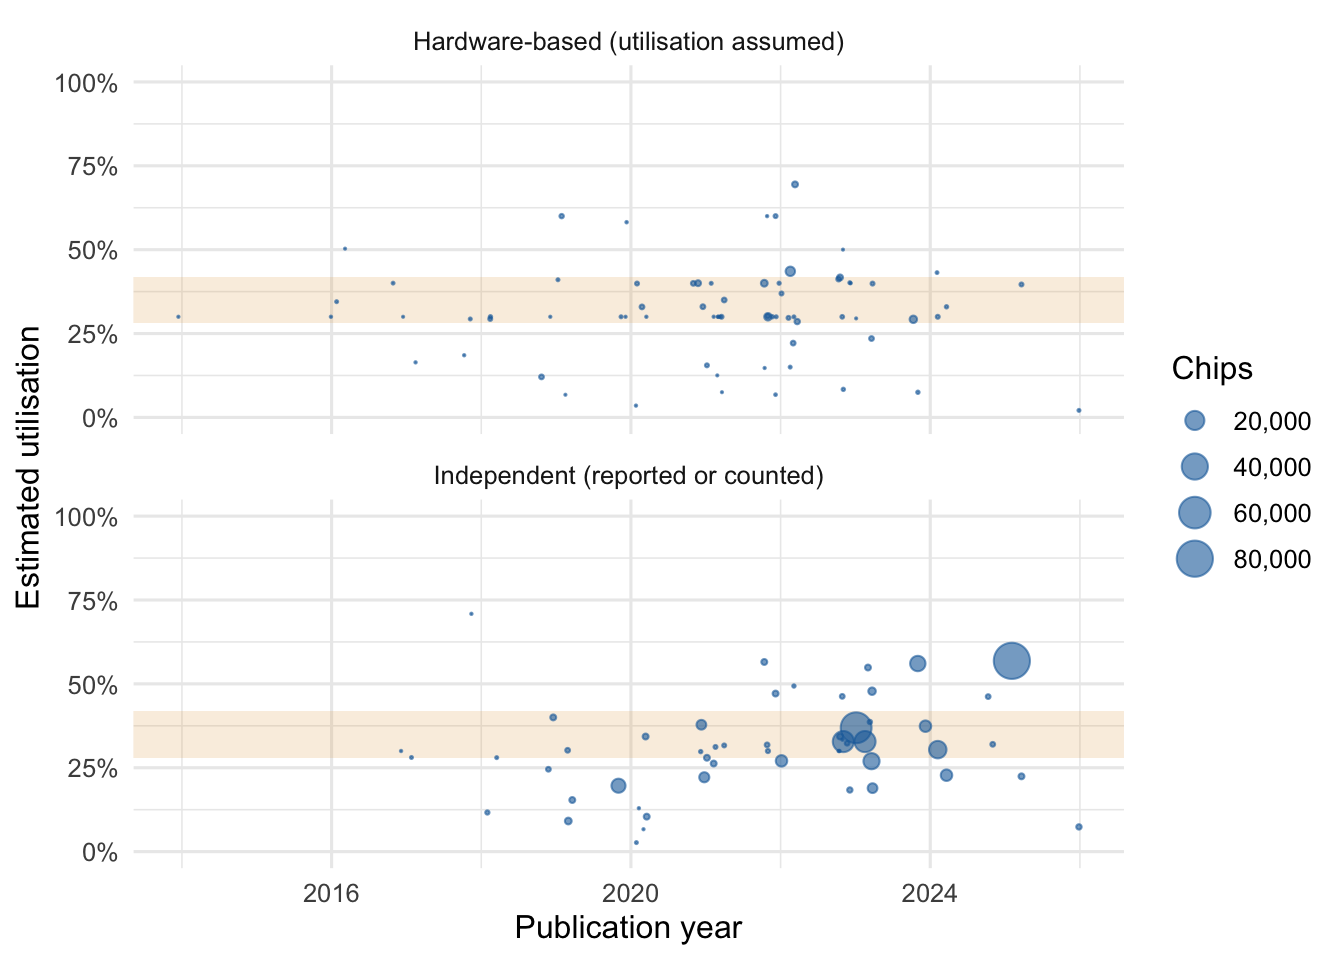
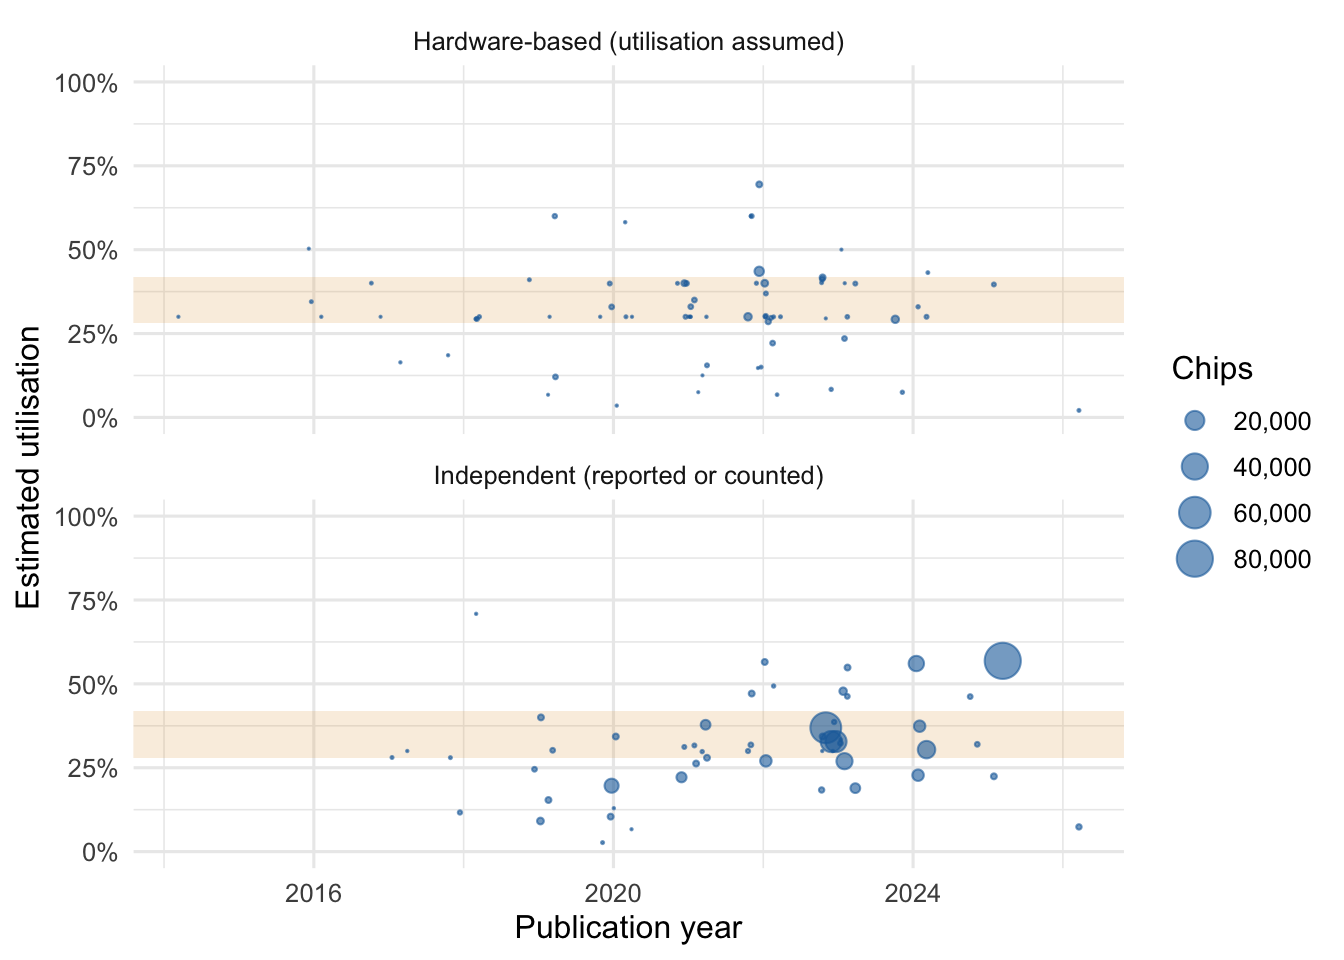
Seed the jitter in the bonus figure so renders are reproducible

diff --git a/docs/posts/r-and-python/index.html b/docs/posts/r-and-python/index.html
@@ -386,12 +386,13 @@ Independent (reported or counted)       64                   11</code></pre>
 <span id="cb13-5"><a href="#cb13-5" aria-hidden="true" tabindex="-1"></a>  <span class="fu">ggplot</span>(<span class="fu">aes</span>(year, utilisation)) <span class="sc">+</span></span>
 <span id="cb13-6"><a href="#cb13-6" aria-hidden="true" tabindex="-1"></a>  <span class="fu">annotate</span>(<span class="st">"rect"</span>, <span class="at">xmin =</span> <span class="sc">-</span><span class="cn">Inf</span>, <span class="at">xmax =</span> <span class="cn">Inf</span>, <span class="at">ymin =</span> <span class="fl">0.28</span>, <span class="at">ymax =</span> <span class="fl">0.42</span>,</span>
 <span id="cb13-7"><a href="#cb13-7" aria-hidden="true" tabindex="-1"></a>           <span class="at">fill =</span> <span class="st">"#e09f3e"</span>, <span class="at">alpha =</span> <span class="fl">0.18</span>) <span class="sc">+</span></span>
-<span id="cb13-8"><a href="#cb13-8" aria-hidden="true" tabindex="-1"></a>  <span class="fu">geom_jitter</span>(<span class="fu">aes</span>(<span class="at">size =</span> chips), <span class="at">width =</span> <span class="fl">0.25</span>, <span class="at">height =</span> <span class="dv">0</span>, <span class="at">colour =</span> <span class="st">"#1b6ca8"</span>, <span class="at">alpha =</span> <span class="fl">0.6</span>) <span class="sc">+</span></span>
-<span id="cb13-9"><a href="#cb13-9" aria-hidden="true" tabindex="-1"></a>  <span class="fu">facet_wrap</span>(<span class="sc">~</span>estimate, <span class="at">ncol =</span> <span class="dv">1</span>) <span class="sc">+</span></span>
-<span id="cb13-10"><a href="#cb13-10" aria-hidden="true" tabindex="-1"></a>  <span class="fu">scale_y_continuous</span>(<span class="at">labels =</span> scales<span class="sc">::</span>percent, <span class="at">limits =</span> <span class="fu">c</span>(<span class="dv">0</span>, <span class="dv">1</span>)) <span class="sc">+</span></span>
-<span id="cb13-11"><a href="#cb13-11" aria-hidden="true" tabindex="-1"></a>  <span class="fu">scale_size_area</span>(<span class="at">max_size =</span> <span class="dv">6</span>, <span class="at">labels =</span> scales<span class="sc">::</span>comma) <span class="sc">+</span></span>
-<span id="cb13-12"><a href="#cb13-12" aria-hidden="true" tabindex="-1"></a>  <span class="fu">labs</span>(<span class="at">x =</span> <span class="st">"Publication year"</span>, <span class="at">y =</span> <span class="st">"Estimated utilisation"</span>, <span class="at">size =</span> <span class="st">"Chips"</span>) <span class="sc">+</span></span>
-<span id="cb13-13"><a href="#cb13-13" aria-hidden="true" tabindex="-1"></a>  <span class="fu">theme_minimal</span>(<span class="at">base_size =</span> <span class="dv">12</span>)</span></code></pre></div><button title="Copy to Clipboard" class="code-copy-button"><i class="bi"></i></button></div>
+<span id="cb13-8"><a href="#cb13-8" aria-hidden="true" tabindex="-1"></a>  <span class="fu">geom_point</span>(<span class="fu">aes</span>(<span class="at">size =</span> chips), <span class="at">colour =</span> <span class="st">"#1b6ca8"</span>, <span class="at">alpha =</span> <span class="fl">0.6</span>,</span>
+<span id="cb13-9"><a href="#cb13-9" aria-hidden="true" tabindex="-1"></a>             <span class="at">position =</span> <span class="fu">position_jitter</span>(<span class="at">width =</span> <span class="fl">0.25</span>, <span class="at">height =</span> <span class="dv">0</span>, <span class="at">seed =</span> <span class="dv">521</span>)) <span class="sc">+</span></span>
+<span id="cb13-10"><a href="#cb13-10" aria-hidden="true" tabindex="-1"></a>  <span class="fu">facet_wrap</span>(<span class="sc">~</span>estimate, <span class="at">ncol =</span> <span class="dv">1</span>) <span class="sc">+</span></span>
+<span id="cb13-11"><a href="#cb13-11" aria-hidden="true" tabindex="-1"></a>  <span class="fu">scale_y_continuous</span>(<span class="at">labels =</span> scales<span class="sc">::</span>percent, <span class="at">limits =</span> <span class="fu">c</span>(<span class="dv">0</span>, <span class="dv">1</span>)) <span class="sc">+</span></span>
+<span id="cb13-12"><a href="#cb13-12" aria-hidden="true" tabindex="-1"></a>  <span class="fu">scale_size_area</span>(<span class="at">max_size =</span> <span class="dv">6</span>, <span class="at">labels =</span> scales<span class="sc">::</span>comma) <span class="sc">+</span></span>
+<span id="cb13-13"><a href="#cb13-13" aria-hidden="true" tabindex="-1"></a>  <span class="fu">labs</span>(<span class="at">x =</span> <span class="st">"Publication year"</span>, <span class="at">y =</span> <span class="st">"Estimated utilisation"</span>, <span class="at">size =</span> <span class="st">"Chips"</span>) <span class="sc">+</span></span>
+<span id="cb13-14"><a href="#cb13-14" aria-hidden="true" tabindex="-1"></a>  <span class="fu">theme_minimal</span>(<span class="at">base_size =</span> <span class="dv">12</span>)</span></code></pre></div><button title="Copy to Clipboard" class="code-copy-button"><i class="bi"></i></button></div>
 <div class="cell-output-display">
 <div id="fig-utilisation" class="quarto-float quarto-figure quarto-figure-center anchored">
 <figure class="quarto-float quarto-float-fig figure">

diff --git a/docs/posts/ai-compute-scaling/index.html b/docs/posts/ai-compute-scaling/index.html
@@ -349,33 +349,33 @@ Table&nbsp;1: Share of the 2010+ models with each field missing.
 <style type="text/css">
 </style>
 
-<table id="T_2bda6" class="cell caption-top table table-sm table-striped small">
+<table id="T_824a8" class="cell caption-top table table-sm table-striped small">
 <thead>
 <tr class="header">
 <th class="blank level0" data-quarto-table-cell-role="th">&nbsp;</th>
-<th id="T_2bda6_level0_col0" class="col_heading level0 col0" data-quarto-table-cell-role="th">missing</th>
+<th id="T_824a8_level0_col0" class="col_heading level0 col0" data-quarto-table-cell-role="th">missing</th>
 </tr>
 </thead>
 <tbody>
 <tr class="odd">
-<th id="T_2bda6_level0_row0" class="row_heading level0 row0" data-quarto-table-cell-role="th">Parameters</th>
-<td id="T_2bda6_row0_col0" class="data row0 col0">12%</td>
+<th id="T_824a8_level0_row0" class="row_heading level0 row0" data-quarto-table-cell-role="th">Parameters</th>
+<td id="T_824a8_row0_col0" class="data row0 col0">12%</td>
 </tr>
 <tr class="even">
-<th id="T_2bda6_level0_row1" class="row_heading level0 row1" data-quarto-table-cell-role="th">Training dataset size</th>
-<td id="T_2bda6_row1_col0" class="data row1 col0">20%</td>
+<th id="T_824a8_level0_row1" class="row_heading level0 row1" data-quarto-table-cell-role="th">Training dataset size</th>
+<td id="T_824a8_row1_col0" class="data row1 col0">20%</td>
 </tr>
 <tr class="odd">
-<th id="T_2bda6_level0_row2" class="row_heading level0 row2" data-quarto-table-cell-role="th">Training hardware</th>
-<td id="T_2bda6_row2_col0" class="data row2 col0">37%</td>
+<th id="T_824a8_level0_row2" class="row_heading level0 row2" data-quarto-table-cell-role="th">Training hardware</th>
+<td id="T_824a8_row2_col0" class="data row2 col0">37%</td>
 </tr>
 <tr class="even">
-<th id="T_2bda6_level0_row3" class="row_heading level0 row3" data-quarto-table-cell-role="th">Open weights flag</th>
-<td id="T_2bda6_row3_col0" class="data row3 col0">8%</td>
+<th id="T_824a8_level0_row3" class="row_heading level0 row3" data-quarto-table-cell-role="th">Open weights flag</th>
+<td id="T_824a8_row3_col0" class="data row3 col0">8%</td>
 </tr>
 <tr class="odd">
-<th id="T_2bda6_level0_row4" class="row_heading level0 row4" data-quarto-table-cell-role="th">Training cost</th>
-<td id="T_2bda6_row4_col0" class="data row4 col0">63%</td>
+<th id="T_824a8_level0_row4" class="row_heading level0 row4" data-quarto-table-cell-role="th">Training cost</th>
+<td id="T_824a8_row4_col0" class="data row4 col0">63%</td>
 </tr>
 </tbody>
 </table>

diff --git a/docs/blog.html b/docs/blog.html
@@ -229,7 +229,7 @@ window.Quarto = {
 
 <div class="quarto-listing quarto-listing-container-default" id="listing-listing">
 <div class="list quarto-listing-default">
-<div class="quarto-post image-right" data-index="0" data-categories="UiUyQ1B5dGhvbiUyQ3JldGljdWxhdGUlMkNIUEM=" data-listing-date-sort="1790146800000" data-listing-file-modified-sort="1790203969555" data-listing-date-modified-sort="NaN" data-listing-reading-time-sort="6" data-listing-word-count-sort="1167">
+<div class="quarto-post image-right" data-index="0" data-categories="UiUyQ1B5dGhvbiUyQ3JldGljdWxhdGUlMkNIUEM=" data-listing-date-sort="1790146800000" data-listing-file-modified-sort="1790204181317" data-listing-date-modified-sort="NaN" data-listing-reading-time-sort="6" data-listing-word-count-sort="1184">
 <div class="thumbnail"><a href="./posts/r-and-python/index.html" class="no-external">
 
 <p class="card-img-top"><img loading='lazy' src="posts/r-and-python/index_files/figure-html/fig-utilisation-1.png"  class="thumbnail-image card-img"/></p>
